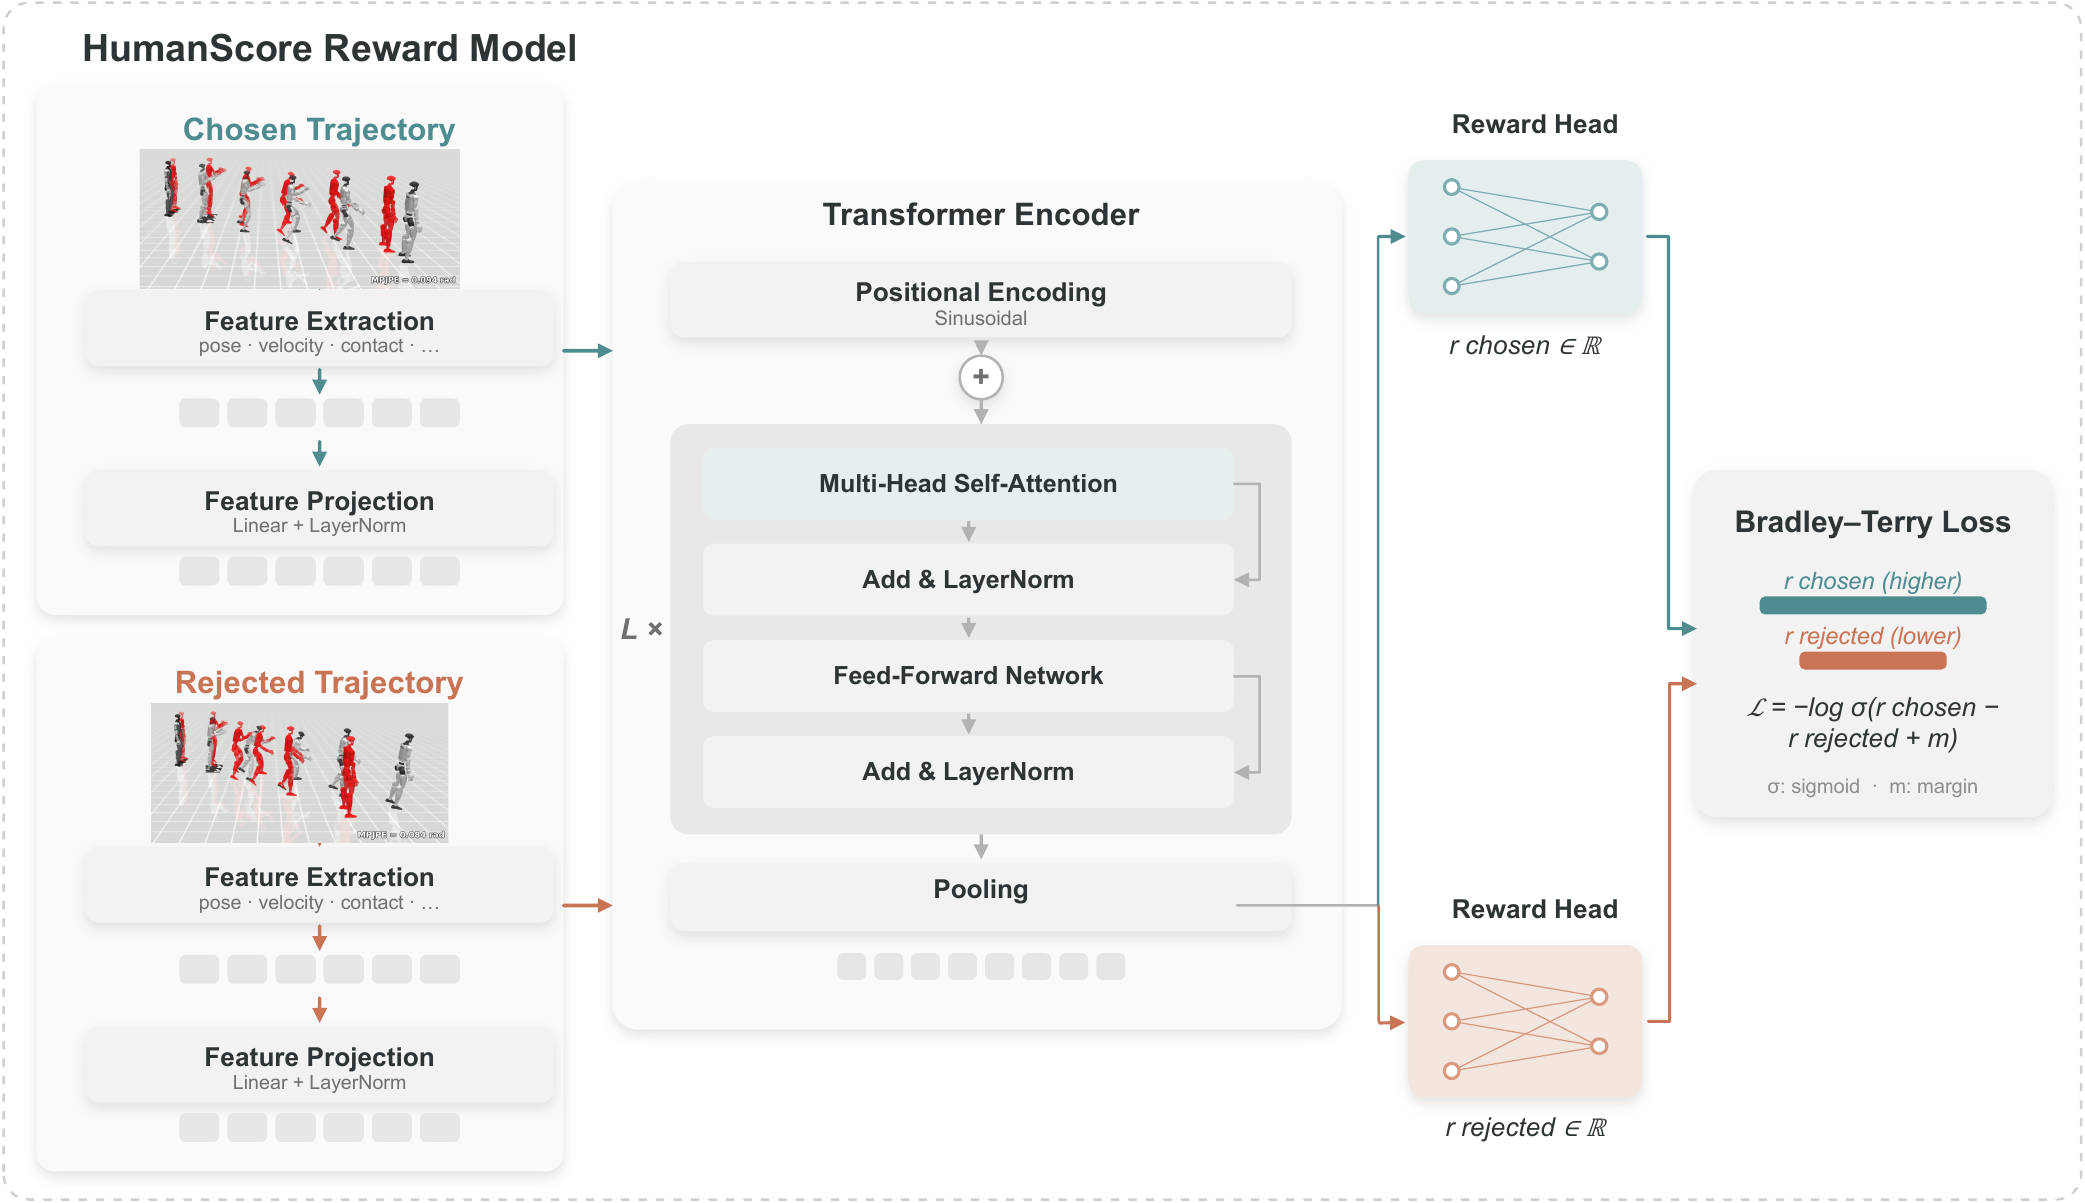
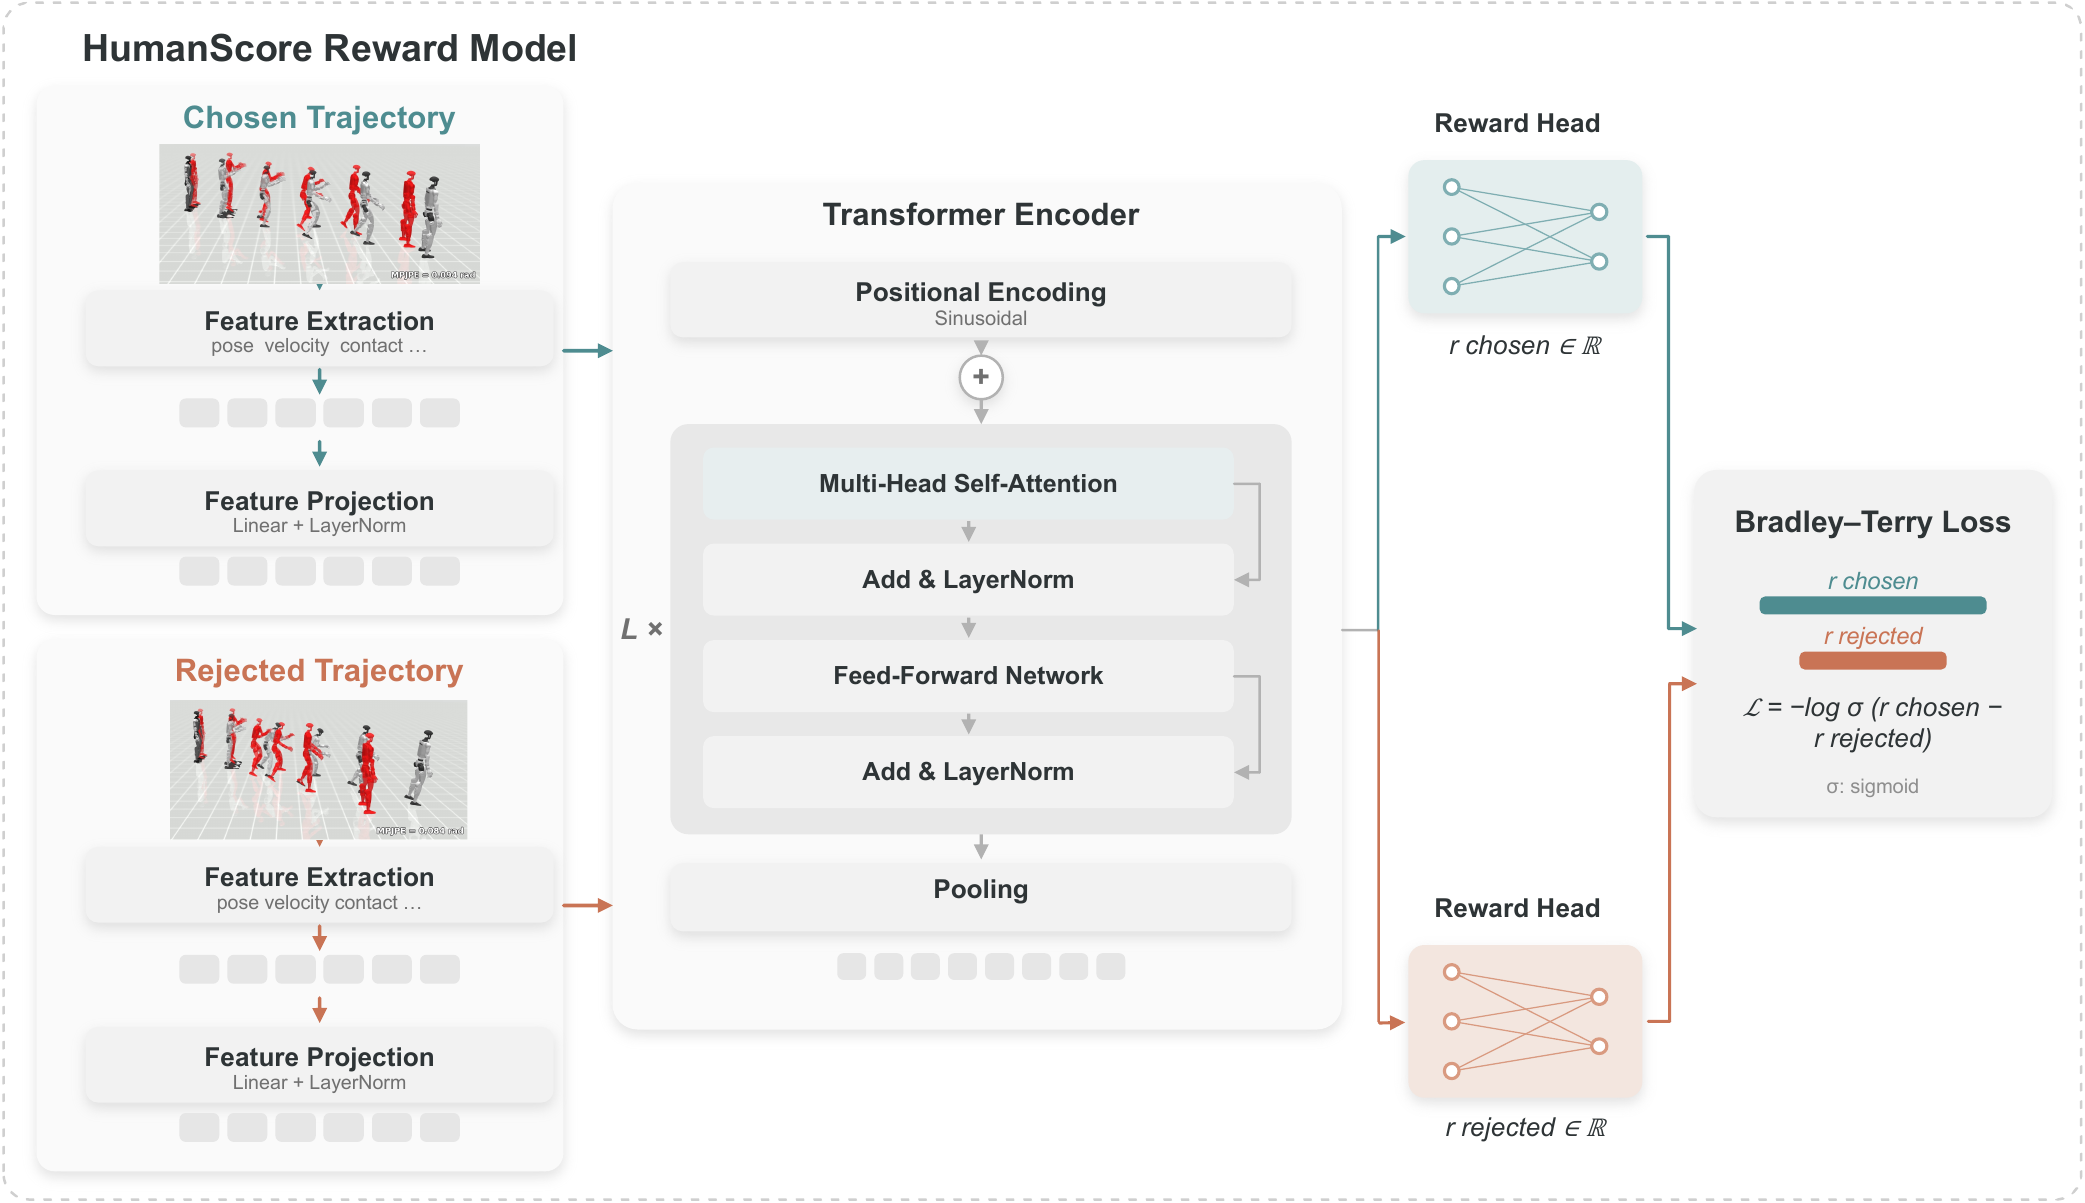
Update HumanTracker page for latest paper

diff --git a/humantracker/index.html b/humantracker/index.html
@@ -128,9 +128,9 @@
           </div>
           <div class="column is-5">
             <div class="key-claim">
-              <span class="key-value">90.89%</span>
+              <span class="key-value">90.83%</span>
               <span class="key-label">alignment with human preferences on the test set</span>
-              <span class="key-note">6.18 points above the strongest conventional diagnostic.</span>
+              <span class="key-note">6.78 points above the strongest conventional diagnostic.</span>
             </div>
           </div>
         </div>
@@ -153,14 +153,14 @@
         <div class="columns is-variable is-7 is-vcentered method-block">
           <div class="column is-7">
             <figure class="method-figure">
-              <img src="./static/images/humanscore-architecture.png" width="2085" height="1203" loading="lazy" alt="HumanScore trajectory reward model from the paper with a temporal Transformer and masked max pooling">
+              <img src="./static/images/humanscore-architecture.png" width="2085" height="1203" loading="lazy" alt="HumanScore trajectory reward model from the paper with a temporal Transformer and masked mean pooling">
             </figure>
           </div>
           <div class="column is-5">
             <div class="content method-copy">
-              <p><strong>12K motion pairs.</strong> Human annotations cover 24K motions with strict preferences, similar judgments, and cannot-compare pairs.</p>
-              <p><strong>Five-second context.</strong> Each 250-frame window is encoded as an 850-dimensional trajectory token sequence with explicit padding masks.</p>
-              <p><strong>Readable output.</strong> Window logits pass through a sigmoid, failed remainder windows score zero, and the trajectory average is reported from 0 to 100.</p>
+              <p><strong>6,000 original pairs.</strong> Six expert annotators provide strict preferences, similar judgments, and cannot-compare judgments. Bilateral mirroring yields 12,000 preference records.</p>
+              <p><strong>Five-second context.</strong> Each 250-frame window is encoded as a 539-dimensional frame-token sequence with explicit padding masks.</p>
+              <p><strong>Readable output.</strong> Window rewards pass through a sigmoid and are averaged from 0 to 100, weighted by the number of actual frames.</p>
             </div>
           </div>
         </div>
@@ -168,18 +168,18 @@
         <div class="evidence-grid">
           <div class="alignment-card">
             <h3>Test set preference alignment</h3>
-            <div class="metric-row"><span>HumanScore</span><div class="bar"><i style="width: 90.89%"></i></div><strong>90.89</strong></div>
-            <div class="metric-row"><span>KPT position MAE</span><div class="bar"><i style="width: 84.71%"></i></div><strong>84.71</strong></div>
-            <div class="metric-row"><span>Joint velocity error</span><div class="bar"><i style="width: 84.61%"></i></div><strong>84.61</strong></div>
-            <div class="metric-row"><span>Foot contact accuracy</span><div class="bar"><i style="width: 82.93%"></i></div><strong>82.93</strong></div>
-            <div class="metric-row"><span>MPJPE</span><div class="bar"><i style="width: 81.68%"></i></div><strong>81.68</strong></div>
-            <p>Alignment rate (%) on 955 independent, unaugmented, strict-preference comparisons in the motion-disjoint test set.</p>
+            <div class="metric-row"><span>HumanScore</span><div class="bar"><i style="width: 90.83%"></i></div><strong>90.83</strong></div>
+            <div class="metric-row"><span>KPT position MAE</span><div class="bar"><i style="width: 84.05%"></i></div><strong>84.05</strong></div>
+            <div class="metric-row"><span>Joint velocity error</span><div class="bar"><i style="width: 84.04%"></i></div><strong>84.04</strong></div>
+            <div class="metric-row"><span>MPJPE</span><div class="bar"><i style="width: 80.49%"></i></div><strong>80.49</strong></div>
+            <div class="metric-row"><span>Foot contact accuracy</span><div class="bar"><i style="width: 78.82%"></i></div><strong>78.82</strong></div>
+            <p>Family-balanced alignment rate (%) on original, unmirrored strict-preference comparisons from the motion-disjoint test set.</p>
           </div>
           <div class="ablation-card">
             <h3>What the model uses</h3>
             <div class="ablation-images">
-              <figure><img src="./static/images/masking-ablation.png" width="1608" height="804" loading="lazy" alt="HumanScore feature masking analysis on the test set"><figcaption>Contact and reference features contribute complementary evidence.</figcaption></figure>
-              <figure><img src="./static/images/temporal-ablation.png" width="1608" height="801" loading="lazy" alt="HumanScore temporal context analysis on the test set"><figcaption>Longer temporal context captures sliding, drift, and recovery.</figcaption></figure>
+              <figure><img src="./static/images/masking-ablation.png" width="1598" height="788" loading="lazy" alt="HumanScore feature sensitivity analysis on the test set"><figcaption>Measured contact features matter most for Ground motions; future reference does not improve the baseline.</figcaption></figure>
+              <figure><img src="./static/images/temporal-ablation.png" width="1598" height="788" loading="lazy" alt="HumanScore temporal context analysis on the test set"><figcaption>Longer temporal context reveals sliding, jitter, drift, and recovery.</figcaption></figure>
             </div>
           </div>
         </div>
@@ -359,7 +359,7 @@
           </article>
           <article class="family-card interaction">
             <h3>Interaction</h3>
-            <p>Object and human interactions require end-effector timing with whole-body stabilization.</p>
+            <p>Object and environment interactions require hand, arm, and whole-body coordination.</p>
             <dl><div><dt>Hours</dt><dd>47.78</dd></div><div><dt>Clips</dt><dd>10,940</dd></div></dl>
           </article>
           <article class="family-card ground">
